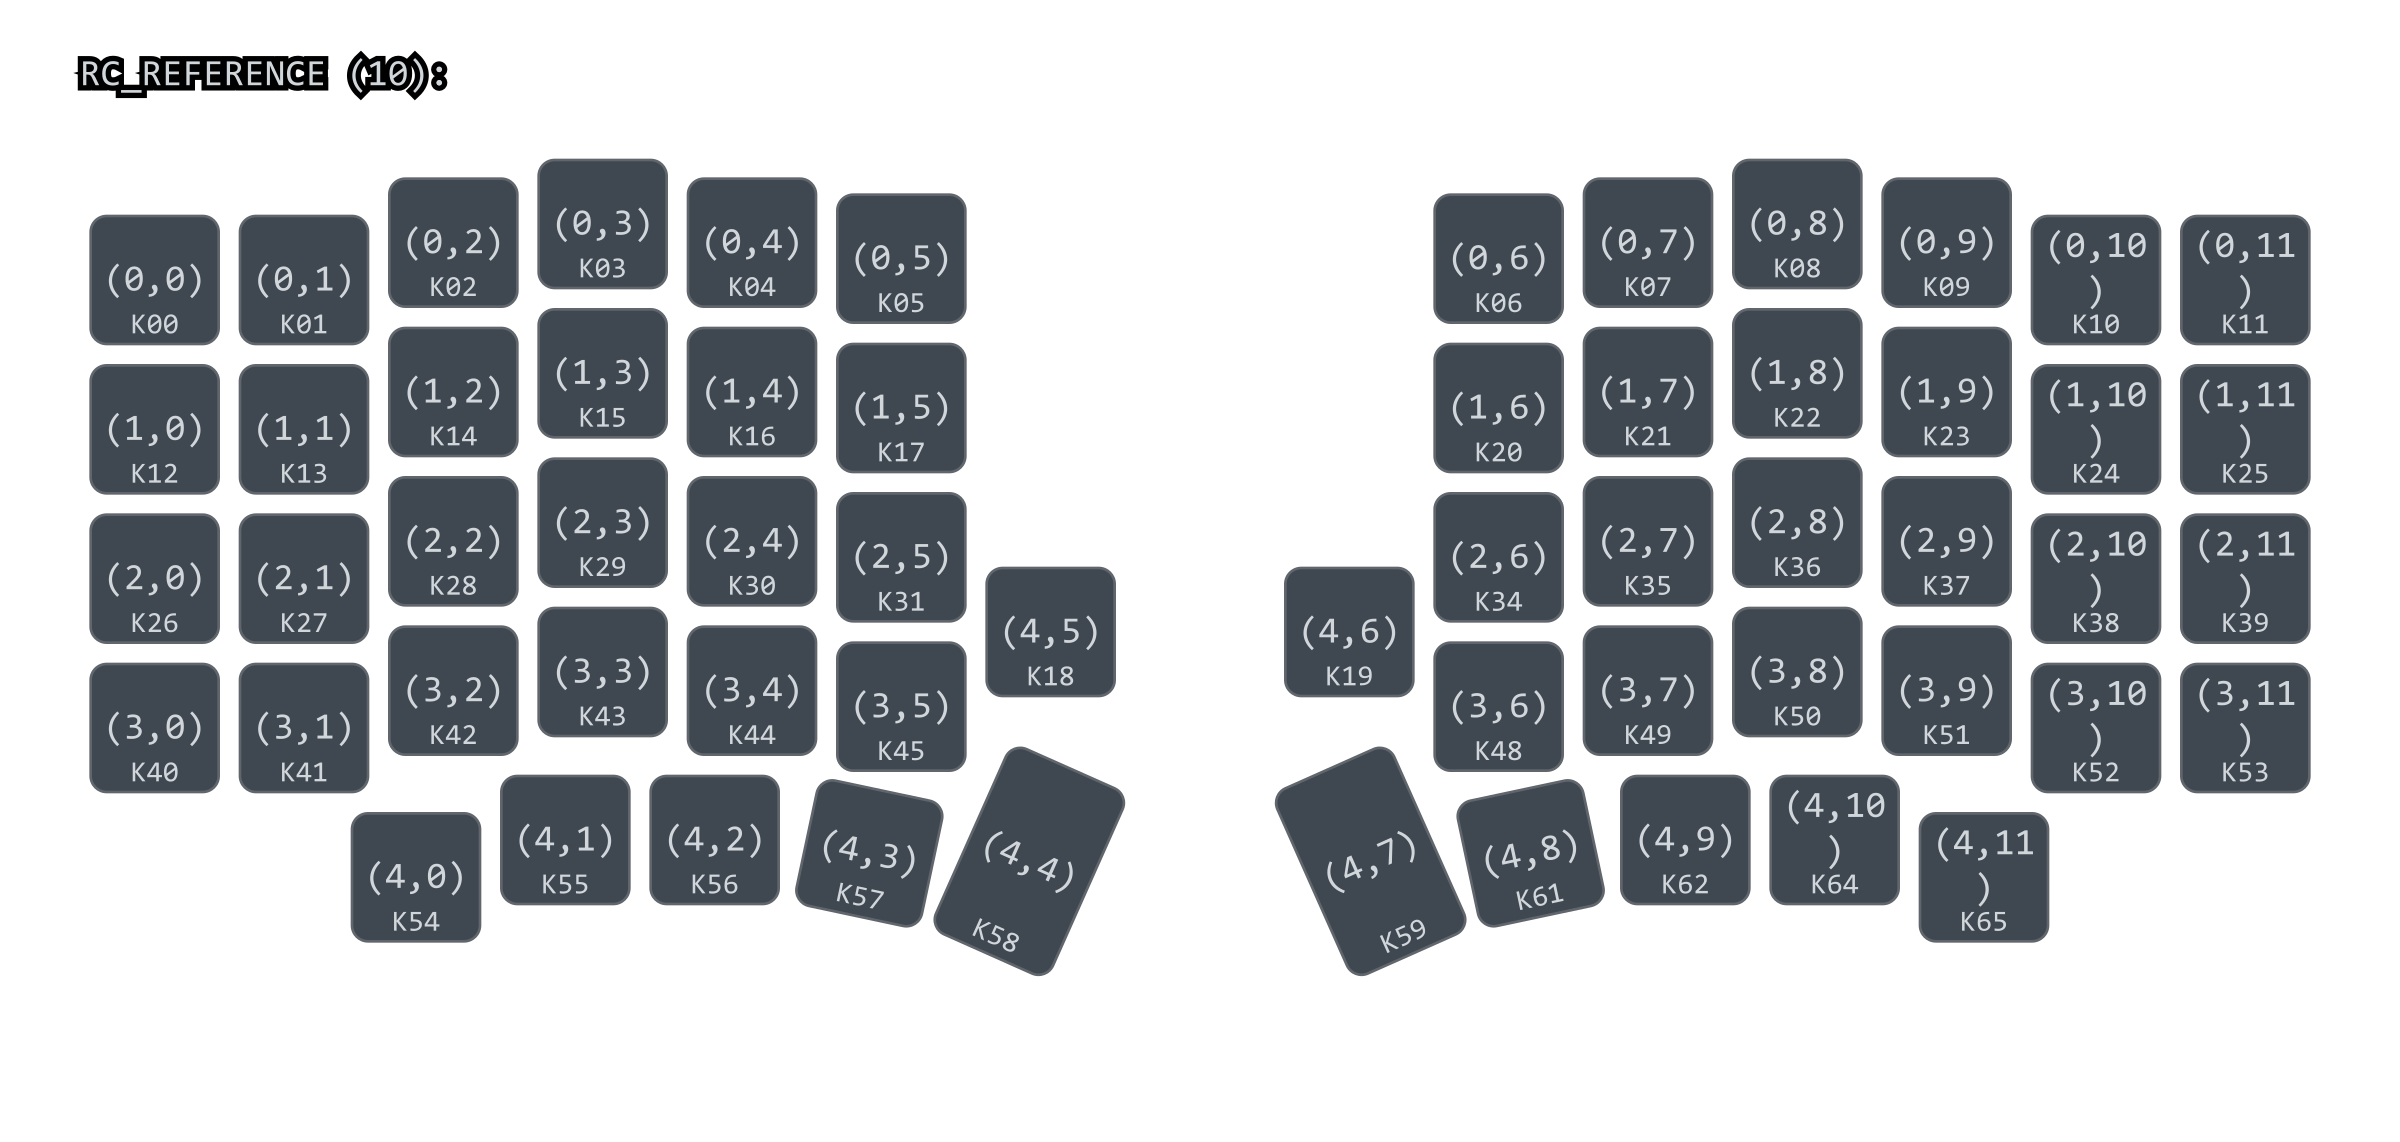
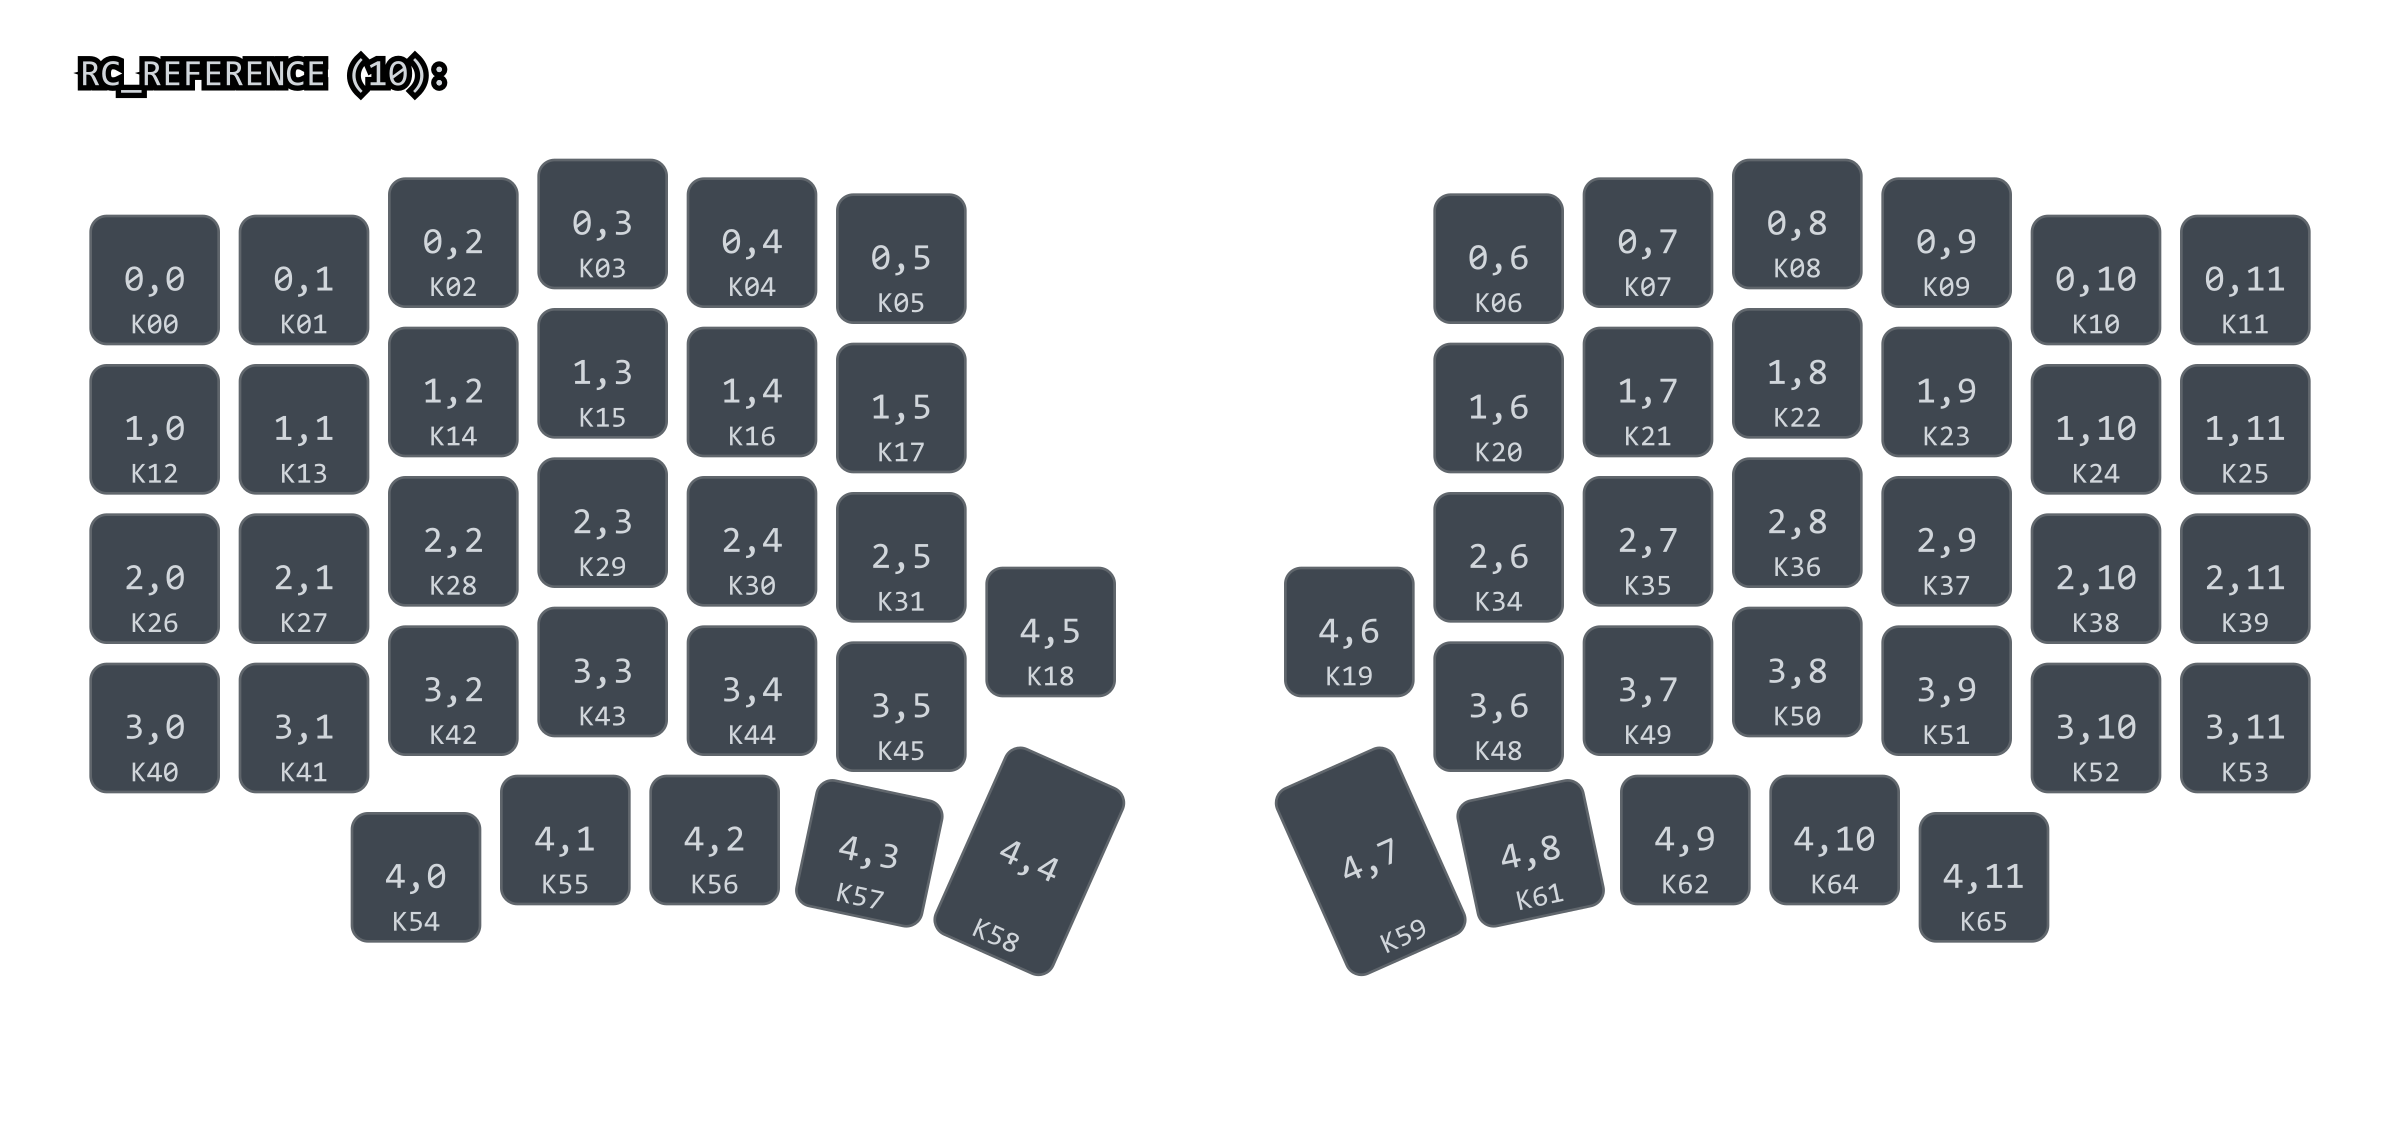
Update keymap configurations and documentation; modify key bindings for improved functionality and clarity. Add new reference images for matrix coordinates and adjust existing SVG files for consistency.

diff --git a/docs/images/cheatsheet.html b/docs/images/cheatsheet.html
@@ -66,5 +66,9 @@
     <figcaption>8 — System</figcaption>
     <img src="sofle-layer8-system.svg" alt="Couche System" width="900" height="428" loading="lazy" />
   </figure>
+  <figure>
+    <figcaption>Référence — indices matrice RC et paramètres K (SOFLE60)</figcaption>
+    <img src="sofle-layer-rc-reference.svg" alt="Référence RC et K00–K65" width="900" height="428" loading="lazy" />
+  </figure>
 </body>
 </html>

diff --git a/support/append_rc_reference_layer.py b/support/append_rc_reference_layer.py
@@ -3,7 +3,7 @@
 """
 Injecte une couche Keymap Drawer « RC_REFERENCE » (60 touches) dans le YAML parsé.
 
-Rangée principale : coordonnées RC (row,col) comme le transform Sofle.
+Rangée principale : coordonnées RC row,col (sans parenthèses à l’affichage) comme le transform Sofle.
 Rangée pouces (10 touches, indices ZMK 50–59) : uniquement RC(4,*) — pas de noms Lily.
   Ordre : (4,0)…(4,4), puis (4,7)…(4,11). Les colonnes (4,5)(4,6) sont sur la rangée alpha.
 """
@@ -18,27 +18,17 @@ from typing import Any, Dict, List
 import yaml
 
 # Ordre SOFLE60 / indices ZMK 0–59 : pouces = RC(4,0)…(4,4), (4,7)…(4,11).
-RC_COORDS: List[str] = [
-    "(0,0)", "(0,1)", "(0,2)", "(0,3)", "(0,4)", "(0,5)",
-    "(0,6)", "(0,7)", "(0,8)", "(0,9)", "(0,10)", "(0,11)",
-    "(1,0)", "(1,1)", "(1,2)", "(1,3)", "(1,4)", "(1,5)",
-    "(1,6)", "(1,7)", "(1,8)", "(1,9)", "(1,10)", "(1,11)",
-    "(2,0)", "(2,1)", "(2,2)", "(2,3)", "(2,4)", "(2,5)",
-    "(2,6)", "(2,7)", "(2,8)", "(2,9)", "(2,10)", "(2,11)",
-    "(3,0)", "(3,1)", "(3,2)", "(3,3)", "(3,4)", "(3,5)",
-    "(4,5)", "(4,6)",
-    "(3,6)", "(3,7)", "(3,8)", "(3,9)", "(3,10)", "(3,11)",
-    "(4,0)",
-    "(4,1)",
-    "(4,2)",
-    "(4,3)",
-    "(4,4)",
-    "(4,7)",
-    "(4,8)",
-    "(4,9)",
-    "(4,10)",
-    "(4,11)",
-]
+# Légende Keymap Drawer : « row,col » sans parenthèses (lisibilité, pas de césure sur 2 lignes).
+RC_COORDS: List[str] = (
+    [f"0,{c}" for c in range(12)]
+    + [f"1,{c}" for c in range(12)]
+    + [f"2,{c}" for c in range(12)]
+    + [f"3,{c}" for c in range(6)]
+    + ["4,5", "4,6"]
+    + [f"3,{c}" for c in range(6, 12)]
+    + [f"4,{c}" for c in range(5)]
+    + [f"4,{c}" for c in range(7, 12)]
+)
 
 # Paramètres SOFLE60 (entrée macro) pour chaque keypos — aligné sur la sortie ZMK dans sofle.keymap.
 KEYPOS_TO_K: List[str] = [
